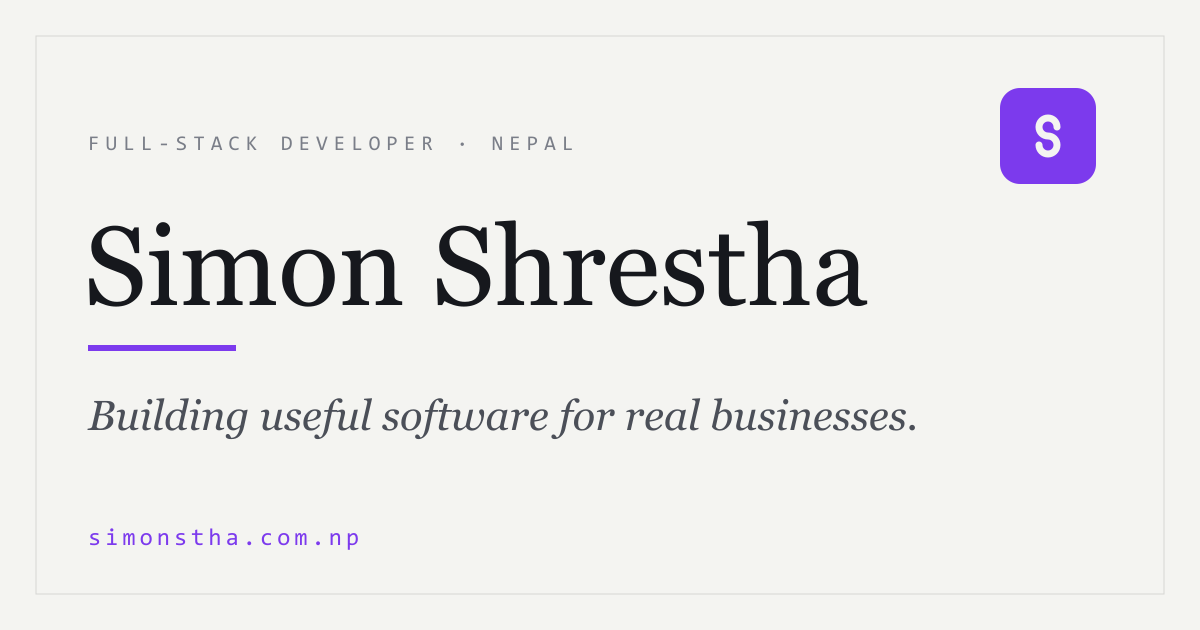
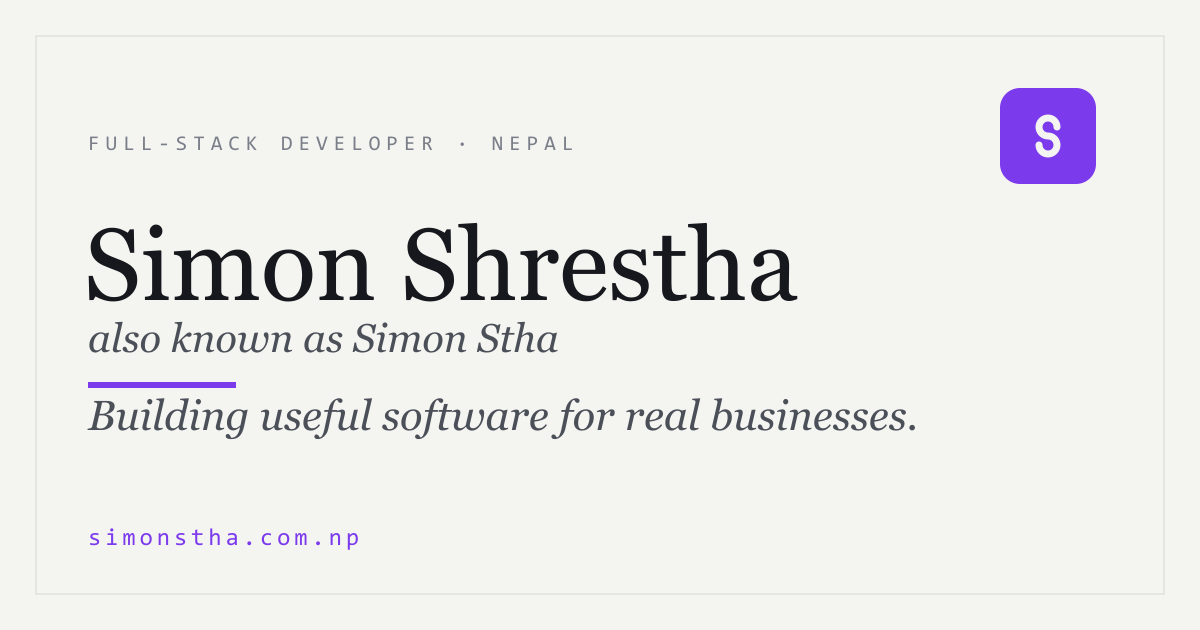
Simon shrestha made in SEO

Changed region(s): [[0.0617, 0.3317, 0.74, 0.4825], [0.0617, 0.5127, 0.4625, 0.573], [0.0617, 0.6032, 0.2158, 0.6333]]

diff --git a/index.html b/index.html
@@ -5,10 +5,10 @@
     <meta name="viewport" content="width=device-width, initial-scale=1.0" />
     <meta name="theme-color" content="#f4f4f1" />
 
-    <title>Simon Shrestha — Full-Stack Developer from Nepal</title>
+    <title>Simon Shrestha (Simon Stha) — Full-Stack Developer from Nepal</title>
     <meta
       name="description"
-      content="Simon Shrestha is a web developer in Nepal building full-stack apps with Django, Django REST Framework, React and PostgreSQL. See live projects and source code."
+      content="Simon Shrestha, also known as Simon Stha, is a web developer in Nepal building apps with Django, DRF, React and PostgreSQL. See live projects."
     />
     <meta name="author" content="Simon Shrestha" />
     <meta name="robots" content="index, follow" />
@@ -22,23 +22,23 @@
     <meta property="og:type" content="website" />
     <meta property="og:site_name" content="Simon Shrestha" />
     <meta property="og:url" content="https://simonstha.com.np/" />
-    <meta property="og:title" content="Simon Shrestha — Full-Stack Developer from Nepal" />
+    <meta property="og:title" content="Simon Shrestha (Simon Stha) — Full-Stack Developer from Nepal" />
     <meta
       property="og:description"
-      content="Portfolio of Simon Shrestha, a full-stack developer from Nepal building web applications, backend systems, and practical digital products."
+      content="Portfolio of Simon Shrestha, also known as Simon Stha — a full-stack developer from Nepal building web applications, backend systems, and practical digital products."
     />
     <meta property="og:image" content="https://simonstha.com.np/images/og.png" />
     <meta property="og:image:width" content="1200" />
     <meta property="og:image:height" content="630" />
-    <meta property="og:image:alt" content="Simon Shrestha — Full-Stack Developer from Nepal" />
+    <meta property="og:image:alt" content="Simon Shrestha (Simon Stha) — Full-Stack Developer from Nepal" />
     <meta property="og:locale" content="en_US" />
 
     <!-- Twitter -->
     <meta name="twitter:card" content="summary_large_image" />
-    <meta name="twitter:title" content="Simon Shrestha — Full-Stack Developer from Nepal" />
+    <meta name="twitter:title" content="Simon Shrestha (Simon Stha) — Full-Stack Developer from Nepal" />
     <meta
       name="twitter:description"
-      content="Portfolio of Simon Shrestha, a full-stack developer from Nepal building web applications, backend systems, and practical digital products."
+      content="Portfolio of Simon Shrestha, also known as Simon Stha — a full-stack developer from Nepal building web applications, backend systems, and practical digital products."
     />
     <meta name="twitter:image" content="https://simonstha.com.np/images/og.png" />
 
@@ -56,7 +56,7 @@
             "@type": "ProfilePage",
             "@id": "https://simonstha.com.np/#webpage",
             "url": "https://simonstha.com.np/",
-            "name": "Simon Shrestha — Full-Stack Developer from Nepal",
+            "name": "Simon Shrestha (Simon Stha) — Full-Stack Developer from Nepal",
             "inLanguage": "en",
             "isPartOf": { "@id": "https://simonstha.com.np/#website" },
             "mainEntity": { "@id": "https://simonstha.com.np/#person" }
@@ -66,6 +66,7 @@
             "@id": "https://simonstha.com.np/#website",
             "url": "https://simonstha.com.np/",
             "name": "Simon Shrestha — Portfolio",
+            "alternateName": "Simon Stha",
             "inLanguage": "en",
             "publisher": { "@id": "https://simonstha.com.np/#person" }
           },
@@ -73,10 +74,11 @@
             "@type": "Person",
             "@id": "https://simonstha.com.np/#person",
             "name": "Simon Shrestha",
+            "alternateName": "Simon Stha",
             "url": "https://simonstha.com.np/",
             "image": "https://simonstha.com.np/images/projects/simon-shrestha-portrait.webp",
             "jobTitle": "Full-Stack Developer",
-            "description": "Full-stack developer from Nepal focused on web applications, backend systems, and practical digital products built with Django, Django REST Framework, React and PostgreSQL.",
+            "description": "Simon Shrestha, also known as Simon Stha, is a full-stack developer from Nepal focused on web applications, backend systems, and practical digital products built with Django, Django REST Framework, React and PostgreSQL.",
             "knowsAbout": [
               "Web development",
               "Django",

diff --git a/src/data/profile.ts b/src/data/profile.ts
@@ -7,6 +7,8 @@
  */
 export const profile = {
   name: 'Simon Shrestha',
+  alternateName: 'Simon Stha',
+  fullName: 'Simon Shrestha (Simon Stha)',
   initials: 'SS',
   role: 'Full-Stack Developer',
   focusLine: 'Backend-focused software developer',
@@ -27,17 +29,18 @@ export const profile = {
     headlineLead: 'Building useful software',
     headlineAccent: 'for real businesses.',
     intro:
-      'I\u2019m Simon Shrestha, a web developer in Nepal building web applications, backend systems, and practical digital products \u2014 from API and database design through to the interfaces people actually use.',
+      'I\u2019m Simon Shrestha, also known as Simon Stha — a web developer in Nepal building web applications, backend systems, and practical digital products \u2014 from API and database design through to the interfaces people actually use.',
   },
   about: {
     lead:
-      'I build practical web applications \u2014 the kind real businesses use to sell products, serve customers, and run day-to-day work.',
+      'I\u2019m Simon Shrestha — also known as Simon Stha. I build practical web applications \u2014 the kind real businesses use to sell products, serve customers, and run day-to-day work.',
     paragraphs: [
       'Most of my work lives on the backend: designing Django applications, shaping REST APIs with Django REST Framework, and modelling data in PostgreSQL so the products on top of them stay reliable. I care about clear interfaces between systems \u2014 well-shaped endpoints, predictable payloads, and authentication that holds up.',
       'I\u2019m equally comfortable wiring those systems into React frontends, so the whole path from database to screen stays in one pair of hands. Everything I know, I\u2019ve learned by shipping real projects: e-commerce stores, business sites, and product frontends that are live and used by actual customers.',
     ],
     facts: [
       { label: 'Based in', value: 'Nepal' },
+      { label: 'Also known as', value: 'Simon Stha' },
       { label: 'Focus', value: 'Backend & full-stack web development' },
       { label: 'Toolchain', value: 'Django, DRF, React, PostgreSQL' },
       { label: 'Shipping since', value: '2023' },

diff --git a/src/sections/Hero.tsx b/src/sections/Hero.tsx
@@ -77,7 +77,7 @@ export function Hero() {
                 <div className="overflow-hidden rounded-md border border-line bg-ink-raised shadow-[0_24px_60px_-40px_rgb(22_24_29/0.4)]">
                   <img
                     src={profile.photo}
-                    alt={`${profile.name} — seated outdoors with a mountain backdrop`}
+                    alt={`${profile.fullName} — seated outdoors with a mountain backdrop`}
                     width={900}
                     height={1600}
                     decoding="async"
@@ -86,7 +86,7 @@ export function Hero() {
                   />
                 </div>
                 <figcaption className="absolute bottom-3 left-3 rounded-full border border-line bg-ink/85 px-3 py-1.5 font-mono text-[0.6875rem] font-medium tracking-[0.12em] text-paper uppercase backdrop-blur-sm">
-                  {profile.name} — {profile.role}
+                  {profile.fullName} — {profile.role}
                 </figcaption>
               </figure>
             </Reveal>

diff --git a/public/404.html b/public/404.html
@@ -8,7 +8,7 @@
     <title>Page not found — Simon Shrestha</title>
     <meta
       name="description"
-      content="This page does not exist. Return to the homepage of Simon Shrestha, full-stack developer from Nepal."
+      content="This page does not exist. Return to the homepage of Simon Shrestha (Simon Stha), full-stack developer from Nepal."
     />
     <link rel="icon" type="image/svg+xml" href="/favicon.svg" />
     <style>
@@ -87,7 +87,7 @@
         link is broken.
       </p>
       <a href="/">Back to simonstha.com.np</a>
-      <p class="meta">Simon Shrestha — Full-Stack Developer from Nepal</p>
+      <p class="meta">Simon Shrestha (Simon Stha) — Full-Stack Developer from Nepal</p>
     </main>
   </body>
 </html>

diff --git a/src/sections/Contact.tsx b/src/sections/Contact.tsx
@@ -132,7 +132,7 @@ export function Contact() {
           </div>
 
           <p className="font-mono text-xs text-paper-faint">
-            © {year} {profile.name} — {profile.domain}
+            © {year} {profile.fullName} — {profile.domain}
           </p>
 
           <div className="flex items-center gap-6 md:justify-end">

diff --git a/README.md b/README.md
@@ -1,6 +1,6 @@
-# simonstha.com.np — Simon Shrestha
+# simonstha.com.np — Simon Shrestha (Simon Stha)
 
-Editorial portfolio for Simon Shrestha ([@simon2sy](https://github.com/simon2sy)) — React + Vite + TypeScript + Tailwind CSS v4, built to deploy on Cloudflare Pages at `https://simonstha.com.np/`.
+Editorial portfolio for Simon Shrestha, also known as Simon Stha ([@simon2sy](https://github.com/simon2sy)) — React + Vite + TypeScript + Tailwind CSS v4, built to deploy on Cloudflare Pages at `https://simonstha.com.np/`.
 
 ## Sections
 
@@ -35,7 +35,7 @@ npm run preview    # serve the production build
 Everything indexable lives on the single canonical URL `https://simonstha.com.np/`:
 
 - **Metadata** — title, meta description, canonical, Open Graph, Twitter card and `theme-color` are hand-maintained in `index.html`. Update them together when copy changes.
-- **Structured data** — one JSON-LD `@graph` in `index.html` with `ProfilePage` + `WebSite` + `Person` (shared `@id`s, `sameAs` for GitHub/Facebook/Instagram). Keep it in sync with visible content; never add claims the page doesn't show.
+- **Structured data** — one JSON-LD `@graph` in `index.html` with `ProfilePage` + `WebSite` (preferred name "Simon Shrestha", `alternateName` "Simon Stha") + `Person` (`name` "Simon Shrestha", `alternateName` "Simon Stha", `sameAs` for GitHub/Facebook/Instagram). Keep it in sync with visible content; never add claims the page doesn't show.
 - **Sitemap** — `scripts/generate-sitemap.mjs` writes `dist/sitemap.xml` during `npm run build` from its `ROUTES` list (canonical, HTTP-200 URLs only — no placeholders). `public/sitemap.xml` intentionally does not exist; the file is generated.
 - **robots.txt** — `public/robots.txt` allows everything and points at the sitemap.
 - **404s** — `public/404.html` (branded, `noindex`) makes Cloudflare Pages return a real `404` for unknown paths. Without a top-level `404.html`, Pages assumes an SPA and serves the homepage with `200` (a soft 404).
